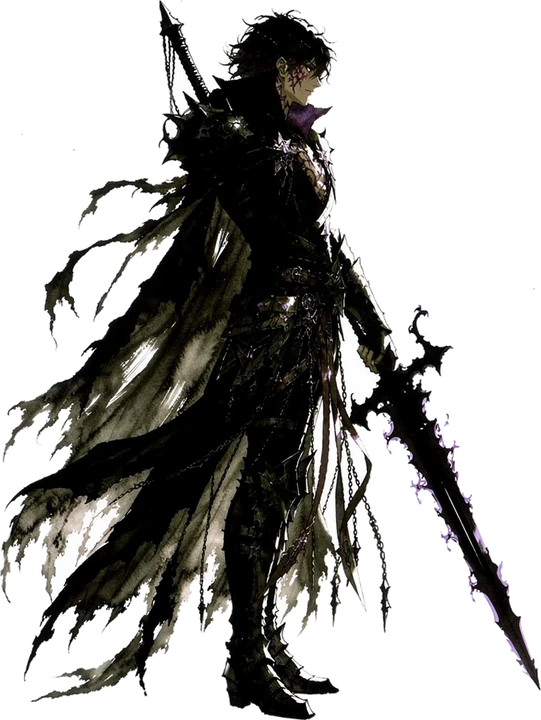
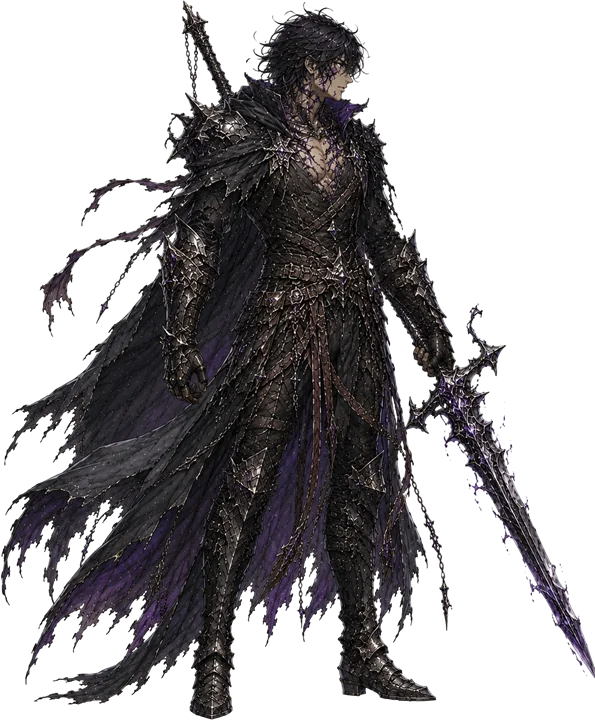
Revert "v2.3 Build 53: the party is repainted into the bestiary's language"
This reverts commit 72c881c447257b2ed4d34b1bea8e1bf851361f0f.

diff --git a/v2.3/index.html b/v2.3/index.html
@@ -9,7 +9,7 @@
   <link rel="preconnect" href="https://fonts.googleapis.com">
   <link rel="preconnect" href="https://fonts.gstatic.com" crossorigin>
   <link href="https://fonts.googleapis.com/css2?family=Cormorant+Garamond:wght@500;600;700&display=swap" rel="stylesheet">
-  <link rel="stylesheet" href="styles.css?v=53" />
+  <link rel="stylesheet" href="styles.css?v=52" />
 </head>
 <body>
   <div id="k-scale">
@@ -278,8 +278,8 @@
       <button type="button" id="k-swap-go" disabled>CHOOSE A CARD TO GIVE UP</button>
     </section>
   </div>
-  <script src="run.js?v=53"></script>
-  <script src="game.js?v=53"></script>
+  <script src="run.js?v=52"></script>
+  <script src="game.js?v=52"></script>
   <script>
     // fit the 932×430 design space to the viewport, v2.2-style
     (function () {

diff --git a/v2.3/game.js b/v2.3/game.js
@@ -27,7 +27,7 @@
 
 'use strict';
 
-const V23_BUILD = 53;   // MUST match version.json's "v2.3" — bump BOTH every build.
+const V23_BUILD = 52;   // MUST match version.json's "v2.3" — bump BOTH every build.
 
 // PRESENTATION SCALE: 1 means the screen shows the engine's own numbers —
 // Slay-the-Spire scale, where a hero has 42 HP and a Cleave hits for 6. Big

diff --git a/v2.3/docs/CARD-ART.md b/v2.3/docs/CARD-ART.md
@@ -46,14 +46,6 @@ black-armoured swordsman from the reference image, same face, same ragged
 black-and-violet plate" — because without that the model drifts off-model by the
 third image in a batch.
 
-**Those three portraits were repainted in Build 53** to match the bestiary's
-rendering (see `HERO-ART.md`). The characters are the same and the accent hues
-are unchanged, so the twenty-eight paintings still read as the same cast; but
-they were generated against the OLD portraits, and a card set regenerated today
-would sit a little closer to the new ones. That is a deliberate open question,
-not an oversight — 28 credits to close it, and worth doing only if the gap
-starts to show.
-
 Output goes to `art/cards/<cardId>.webp`. `CARD_ART` in `game.js` is the switch:
 an id listed there gets its painting, an id not listed falls back to the owner's
 portrait framed as a bust. Adding art is two steps — drop the file in, add the
